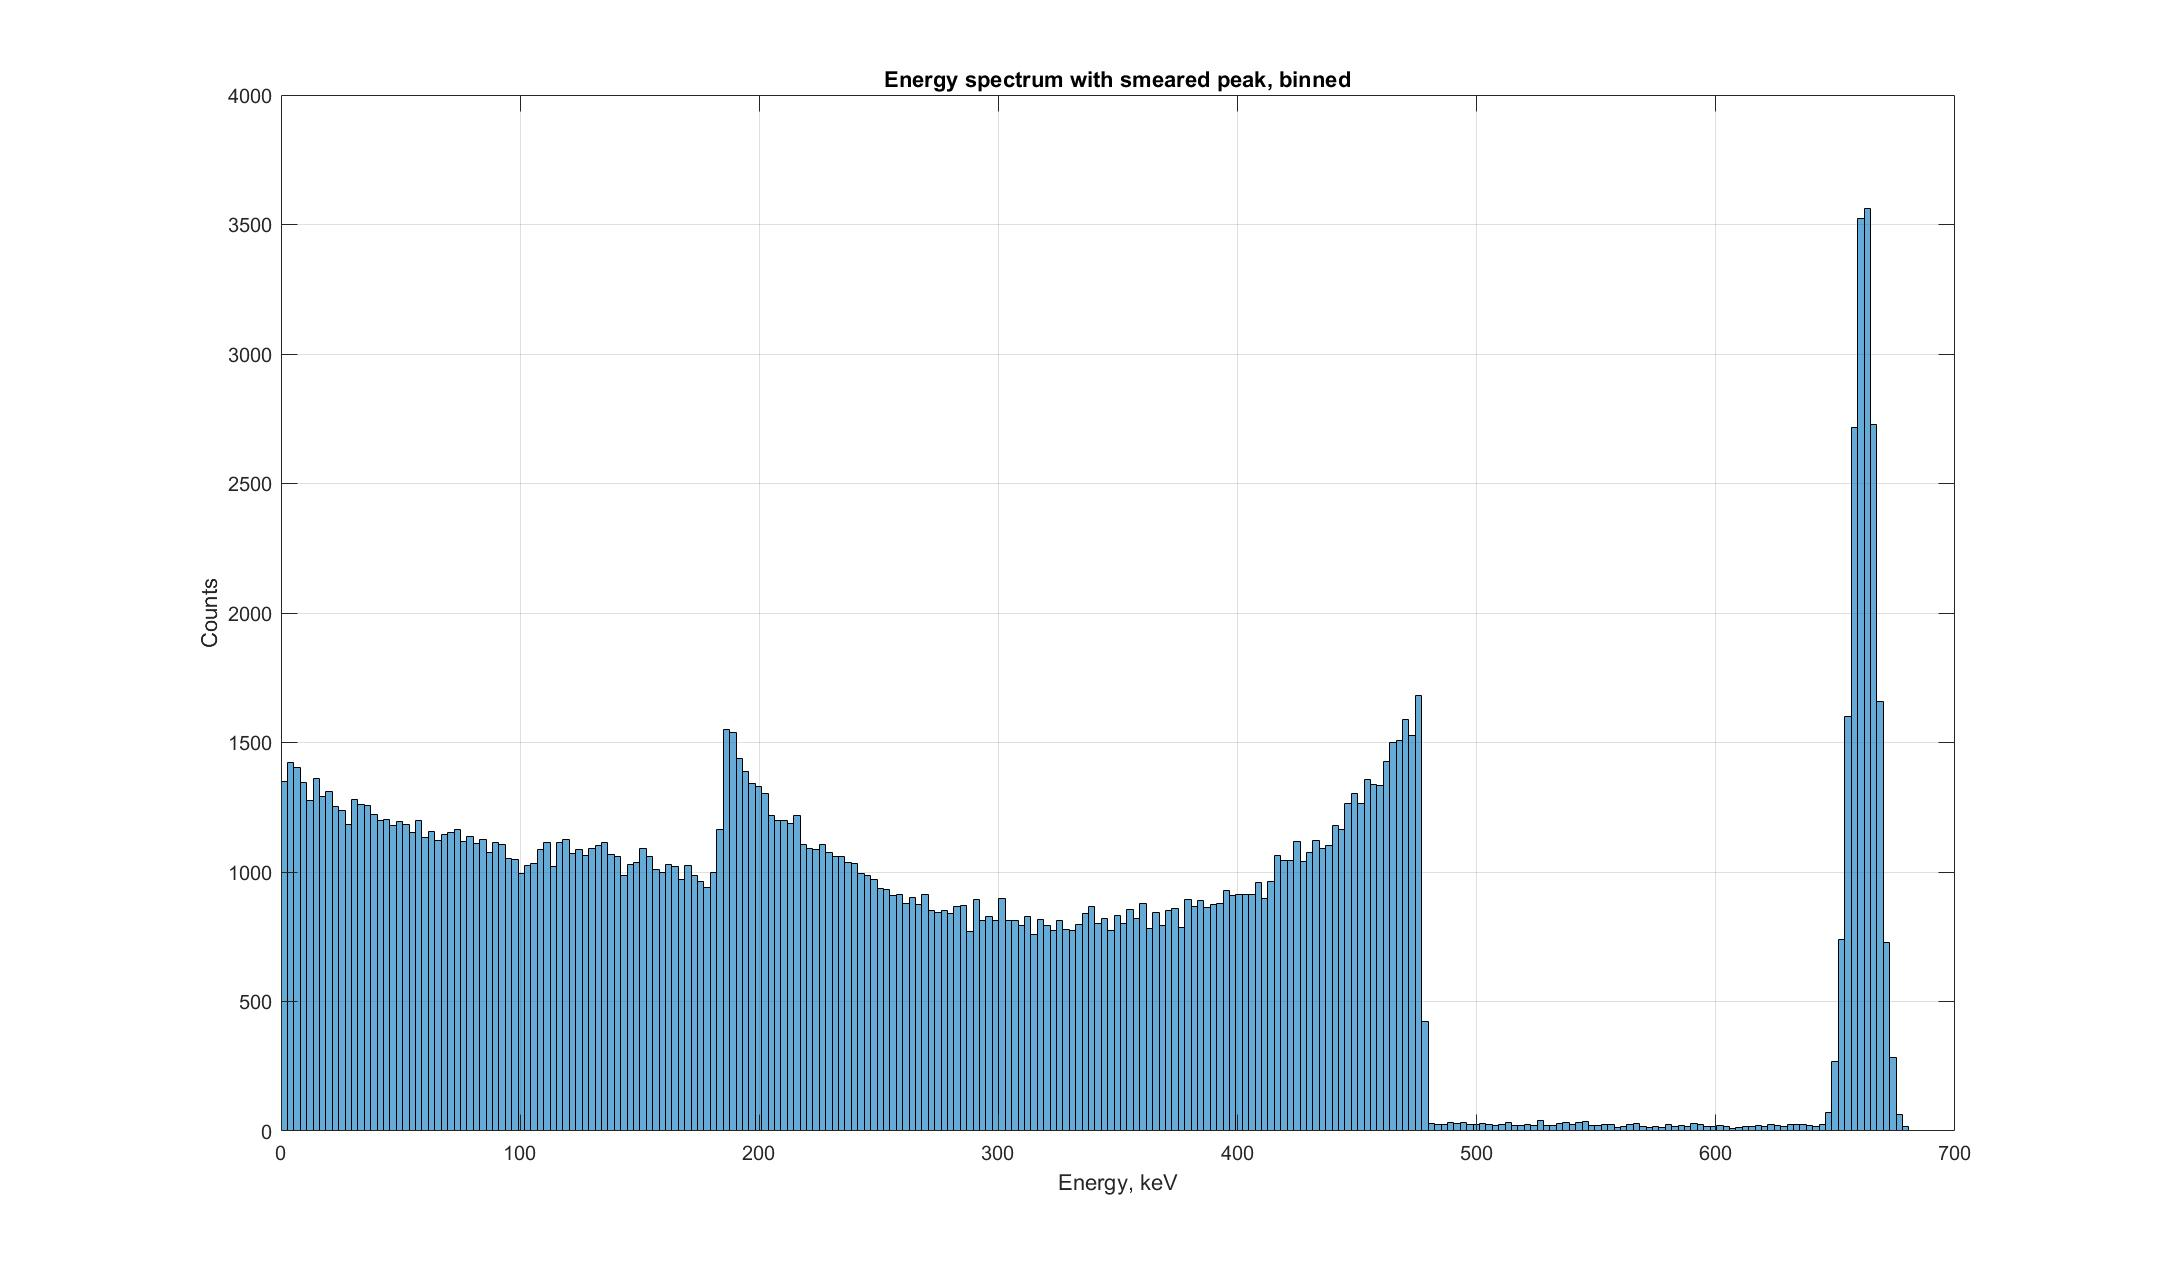
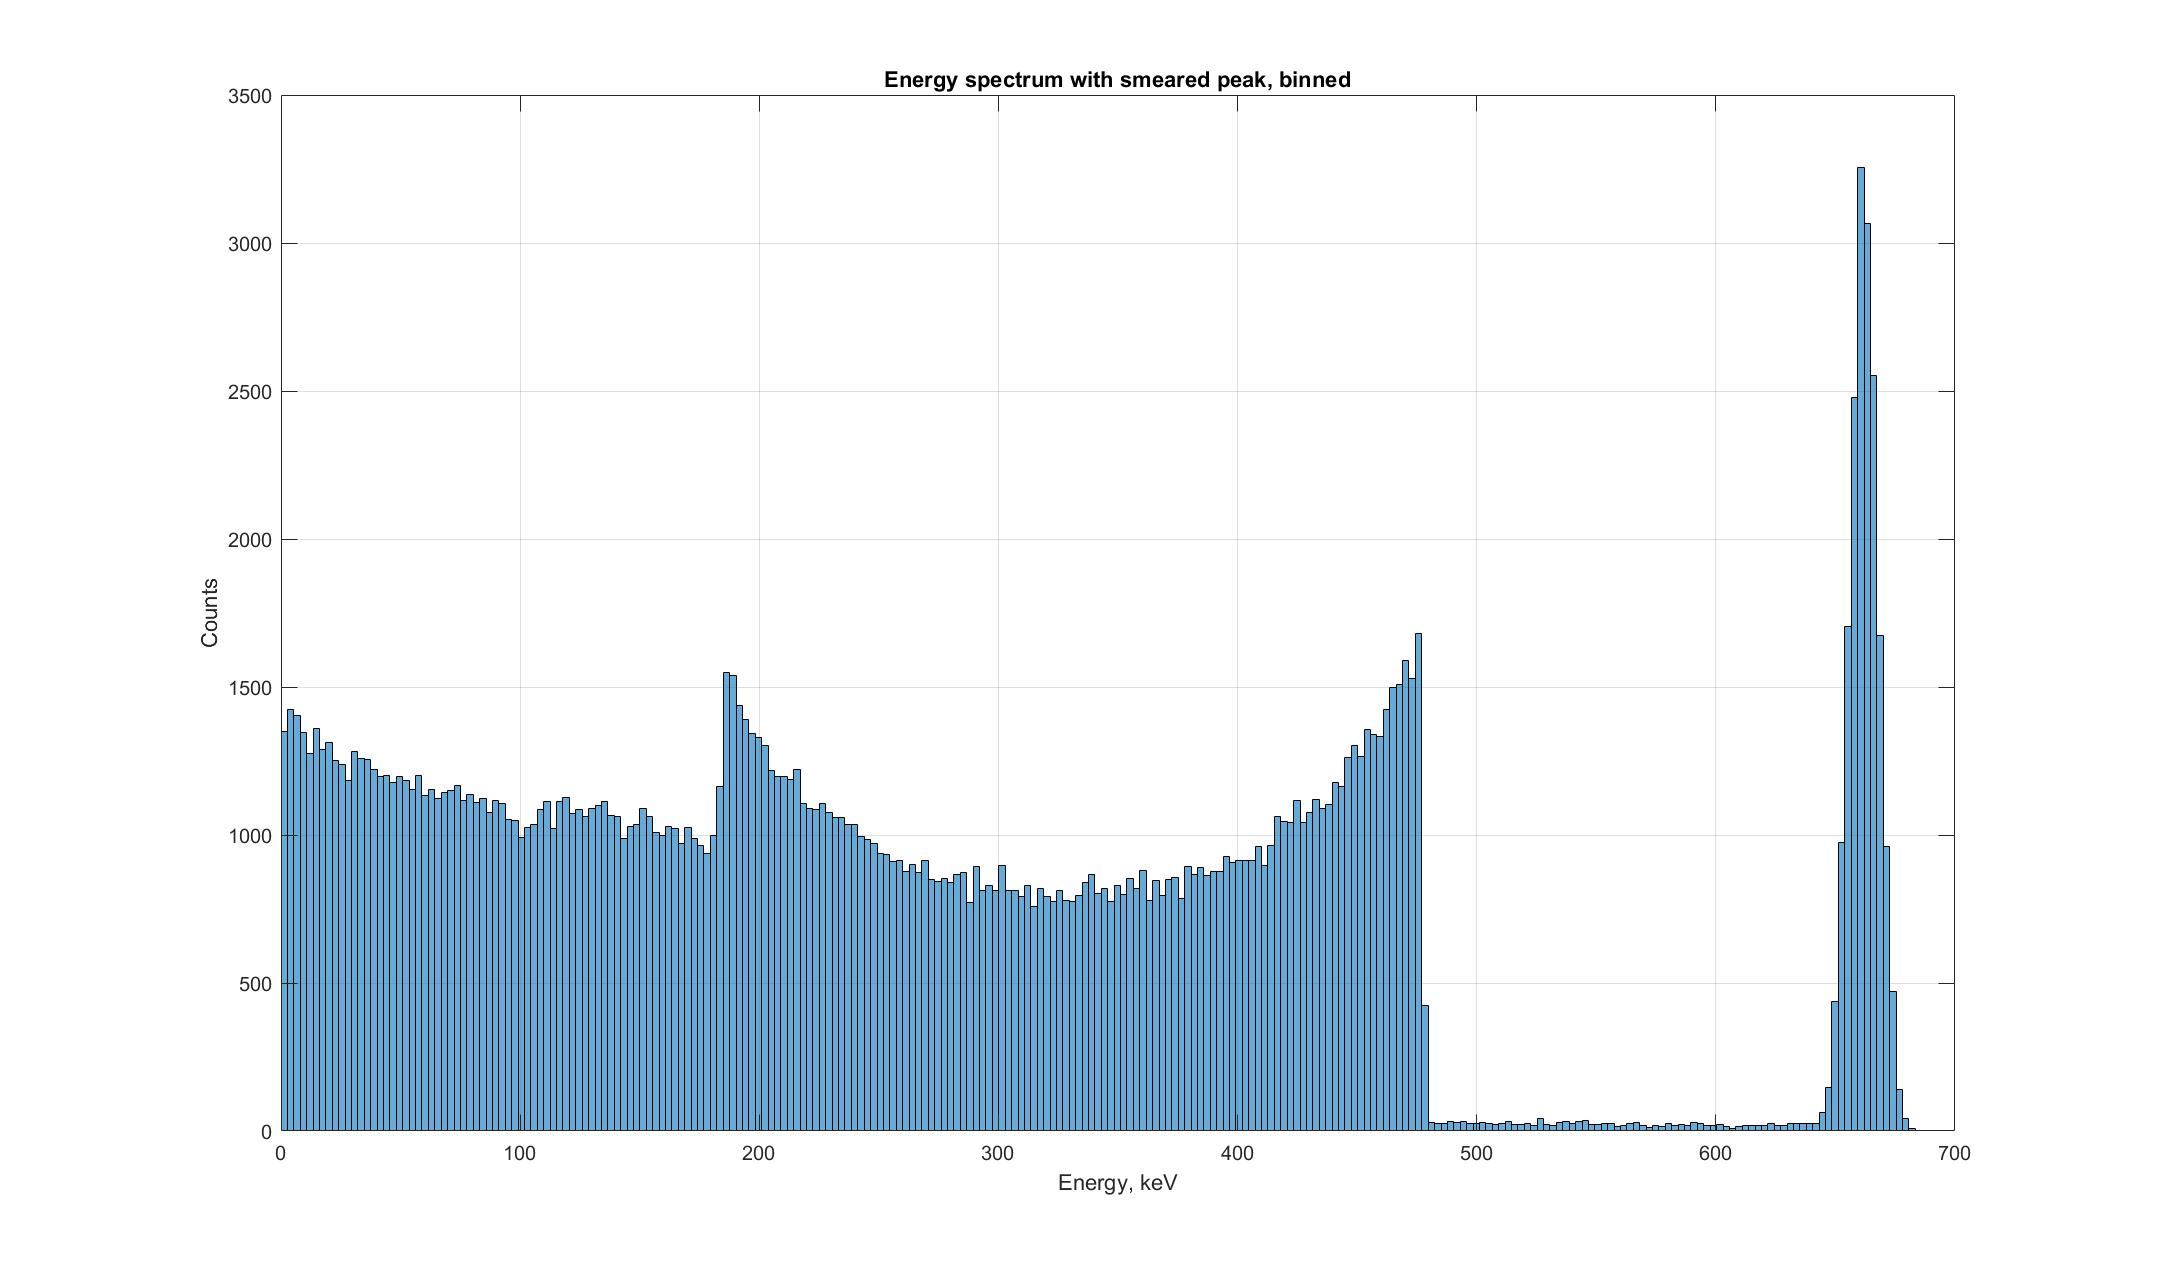
Statistical noise implemented

diff --git a/tupleHist.m b/tupleHist.m
@@ -9,7 +9,7 @@ function [coinAll, coinAllEn, coinTr, coinEn, en, noNoiseEn, evNum, timeAdj, tim
     % Grabbing data from G4 PRISM_Sim output file, transforming into matrix
     % pr = 'Enter file name.';
     % fn = input(pr, 's');
-    fn = 'output_662keV_rand_cone_SA1D_HP912_abridged.txt';
+    fn = 'output_662keV_rand_cone_SA1D_HP912.txt';
     fID = fopen(fn, 'r');
     line = fgetl(fID);
     fclose(fID);
@@ -67,21 +67,136 @@ function [coinAll, coinAllEn, coinTr, coinEn, en, noNoiseEn, evNum, timeAdj, tim
         [peakCts, peakInd] = max(tabbedEn(:, 2));
         peakEn = tabbedEn(peakInd, 1);
         n = 1;
+        
+        % Assuming a measurement of 10 keV-FWHM for electronic noise
+        elecNoiseFWHM = 10;
+        elecNoiseSTDDEV = elecNoiseFWHM / 2.355;
+        
+        % For an ionization energy in CZT of 5 eV
+        qCarrGenN = peakEn / 0.005;
+        % For an average pulse height of 5.7 V ...
+        % source: Hess et. all, "Analysis of the pulse shapes obtained ...
+        % from single crystal CdZnTe radiation detectors", 1994
+        propCons = 5.7 / qCarrGenN;
+        statNoiseSTDDEV = propCons * sqrt(qCarrGenN);
+        
+        % Adding noise stddevs in quadrature
+        noiseDev = sqrt((elecNoiseSTDDEV ^ 2) + (statNoiseSTDDEV ^ 2));
+        noiseFWHM = 2.355 * noiseDev;
+        
         while n <= peakCts
             vecROI(n) = peakEn;
             n = n + 1;
         end
         nFilter = [];
-        while length(nFilter) ~= length(vecROI)
-            filterFiller = randn / 128; 
-            % tightening spread of randn takes resolution at FWHM to  ...
-            % approximately 2-percent (13.24 keV is exactly 2%)
-            
-            if filterFiller
-                nFilter = [nFilter, filterFiller + 1];
+        tightness = 128;
+        
+        [nFilter, smVecROI] = tightener(nFilter, tightness);
+        
+%         function [nFilter, smVecROI] = primeTightness(nFilter, howTight)
+%             nFilter = [];
+%             while length(nFilter) ~= length(vecROI)
+%                 
+%                 filterFiller = randn / howTight; 
+%                 % tightening spread of randn takes resolution at FWHM to  ...
+%                 % approximately 2-percent (13.24 keV is exactly 2%)
+% 
+%                 if filterFiller
+%                     nFilter = [nFilter, filterFiller + 1];
+%                 end
+%             end
+%             smVecROI = nFilter .* vecROI;
+%         end
+%         
+%         function [newFilter, smVecROI] = tightener(nFilter, howTight, tightnessP)
+% 
+%             % tightening or loosening the spread that was defined ...
+%             % previously
+%             newFilter = nFilter - 1;
+%             newFilter = newFilter * tightnessP;
+%             newFilter = newFilter / howTight;
+%             newFilter = newFilter + 1;
+% 
+%             smVecROI = newFilter .* vecROI;
+%         end
+        
+        function [nFilter, smVecROI] = tightener(nFilter, howTight, tightnessP)
+            nFilter = [];
+            while length(nFilter) ~= length(vecROI)
+                
+                filterFiller = randn / howTight; 
+                % tightening spread of randn takes resolution at FWHM to  ...
+                % approximately 2-percent (13.24 keV is exactly 2%)
+
+                if filterFiller
+                    nFilter = [nFilter, filterFiller + 1];
+                end
             end
+            smVecROI = nFilter .* vecROI;
         end
-        smVecROI = nFilter .* vecROI;
+        
+        [binInds, binEdges] = discretize(smVecROI, round(length(unique(smVecROI)) / 8));
+        tabbedBinInds = tabulate(binInds);
+        p = 1;
+        halfDiff = 1000;
+        diffr = 0;
+        fwCur = 1000;
+        [rows, cols] = size(tabbedBinInds);
+        fact = 1.2;
+        upCount = 0;
+        
+        % Tracking down the most accurate bins for the half-max
+        while round(noiseFWHM, 1) ~= round(fwCur, 1)
+            
+            [binInds, binEdges] = discretize(smVecROI, round(length(unique(smVecROI)) / 16));
+            tabbedBinInds = tabulate(binInds);
+            p = 1;
+            halfDiff = 1000000;
+            diffr = 0;
+            fwCur = 1000000;
+            [rows, cols] = size(tabbedBinInds);
+            hm = max(tabbedBinInds(:, 2)) / 2;
+            
+            while p < round(rows / 2)
+                diffr = abs(hm - tabbedBinInds(p, 2));
+                if diffr < halfDiff
+                    halfDiff = diffr;
+                    fwIndLeft = (binEdges(p) + binEdges(p + 1)) / 2;
+                end
+                p = p + 1;
+            end
+
+            halfDiff = 1000000;
+            while p < rows
+                diffr = abs(hm - tabbedBinInds(p, 2));
+                if diffr < halfDiff
+                    halfDiff = diffr;
+                    fwIndRight = (binEdges(p) + binEdges(p + 1)) / 2;
+                end
+                p = p + 1;
+            end
+
+            % Checking whether the current FWHM is smaller or larger ...
+            % than that dictated by the noise
+            fwCur = fwIndRight - fwIndLeft;
+            
+            if fwCur > noiseFWHM
+                tightnessPrior = tightness;
+                tightness = tightness * fact;
+                upCount = upCount + 1;
+                if rem(upCount, 5) == 0
+                    fact = sqrt(fact);
+                end
+            elseif fwCur < noiseFWHM
+                tightnessPrior = tightness;
+                tightness = tightness / fact;
+            end
+            
+            [nFilter, smVecROI] = tightener(nFilter, tightness, tightnessPrior);
+        end
+        
+        
+        
         histfit(smVecROI, round(length(unique(smVecROI)) / 16))
         title('Fitted peak with randomly-selected normal smearing');
         xlabel('Energy, keV');
@@ -223,12 +338,12 @@ function [coinAll, coinAllEn, coinTr, coinEn, en, noNoiseEn, evNum, timeAdj, tim
     k = 1;
     coinAll = evNum;
     while k < length(timeAdj)
-        if ((timeAdj(k) + 0.2) >= timeAdj(k+1)) && ((timeAdj(k) - 0.2) <= timeAdj(k+1)) && (detID(k) == detID(k+1))
+        if ((timeAdj(k) + 0.01) >= timeAdj(k+1)) && ((timeAdj(k) - 0.01) <= timeAdj(k+1)) && (detID(k) == detID(k+1))
             coinAll(k) = 1;
             coinAll(k+1) = 1;
             k = k + 2;
         elseif k > 1
-            if ((timeAdj(k) + 0.2) >= timeAdj(k-1)) && ((timeAdj(k) - 0.2) <= timeAdj(k-1)) && (detID(k) == detID(k-1))
+            if ((timeAdj(k) + 0.01) >= timeAdj(k-1)) && ((timeAdj(k) - 0.01) <= timeAdj(k-1)) && (detID(k) == detID(k-1))
                 coinAll(k) = 1;
                 k = k + 1;
             else
